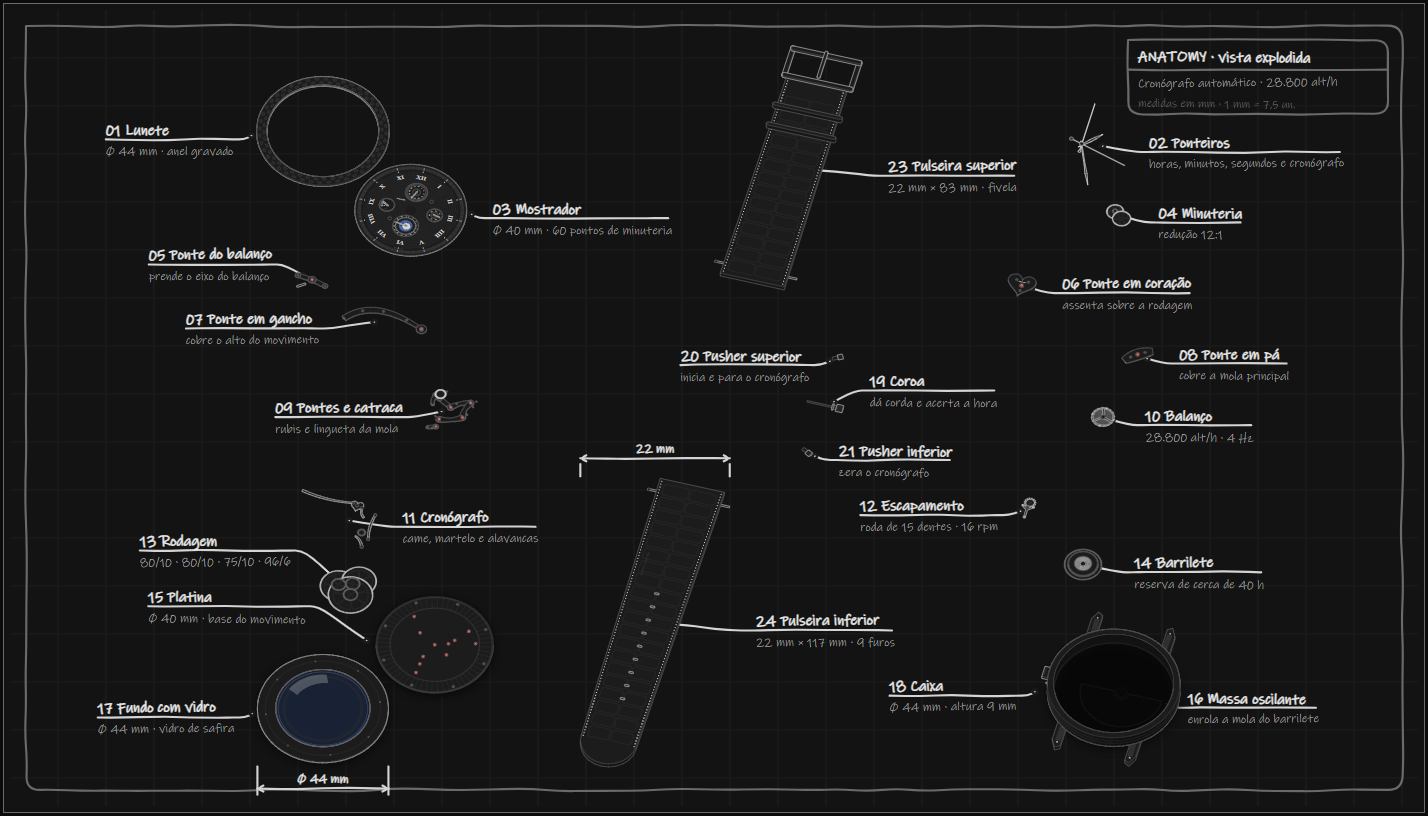
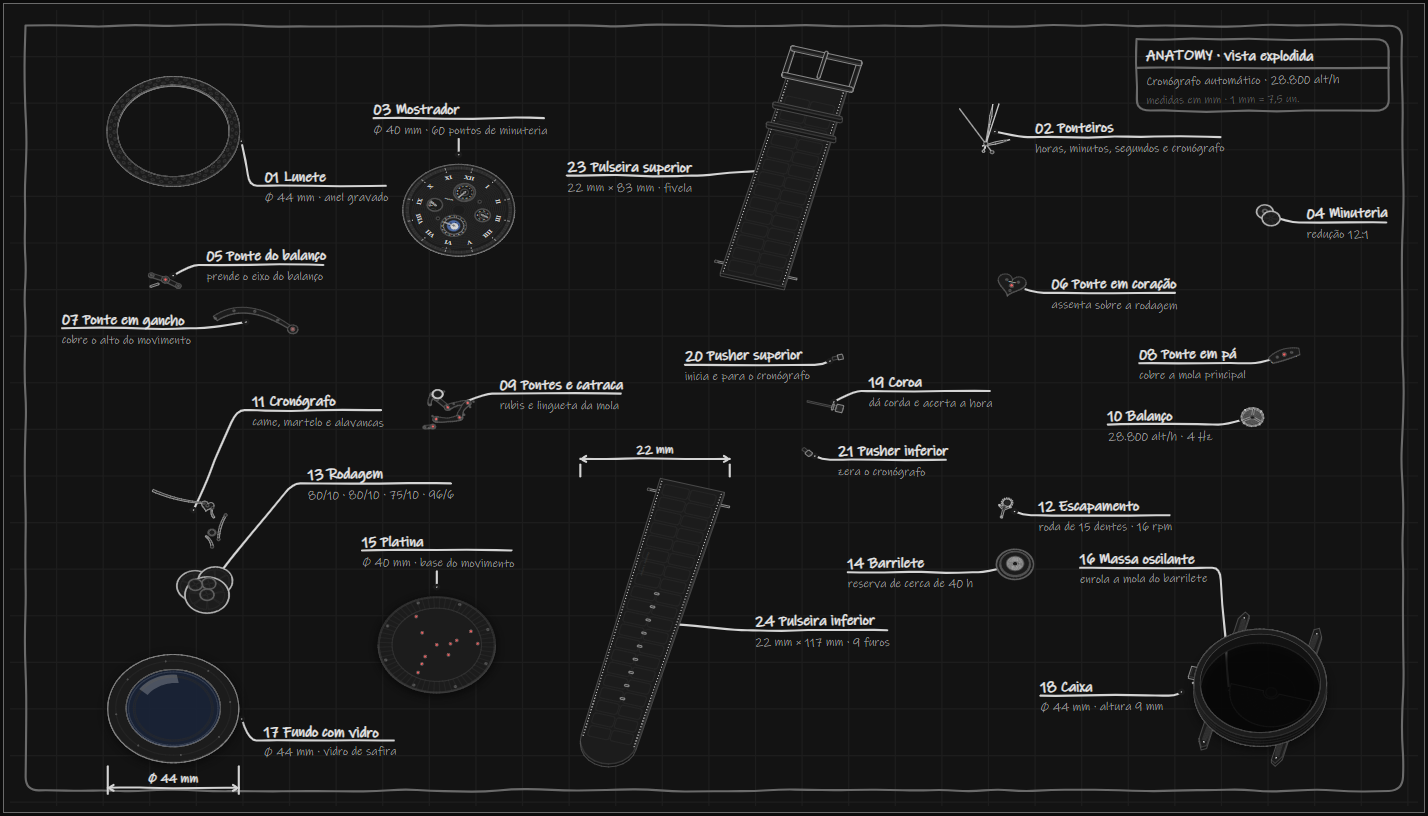
.

diff --git a/relogio/relogio-grande-light.html b/relogio/relogio-grande-light.html
@@ -1014,7 +1014,7 @@ function draw() {
     const rb = svgRoot.getBoundingClientRect();
     const sc2 = Math.min(rb.width / VB1[2], rb.height / VB1[3]);
     const vbw = Math.abs(iso([SPREAD_DIR[0], SPREAD_DIR[1], 0], P)[0] - iso([0, 0, 0], P)[0]);
-    spScale = Math.max(0.5, Math.min(4, ((rb.width - 600) / 2 - 0) / (sc2 * vbw) / 250));
+    spScale = Math.max(0.5, Math.min(9, ((rb.width - 310) / 2) / (sc2 * vbw) / 250));
     state.spScale = spScale;
     state.spZk = Math.max(0.5, sc2 / 0.612);
   }
@@ -1175,7 +1175,7 @@ function hairPath(theta) {
   for (let i = 0; i <= N; i++) { const t = i / N, a = turns * 2 * Math.PI * t + theta * Math.PI / 180 * (1 - t), r = r0 + (r1 - r0) * t * (1 + 0.012 * Math.sin(theta * Math.PI / 180)); pts.push(iso([BAL[0] + r * Math.cos(a), BAL[1] + r * Math.sin(a), 31.3], P)); }
   return pathOf(pts);
 }
-const SPREAD = {"bezel":-250,"hands":225,"dial":-195,"motion":250,"cock":-245,"bridgeHeart":185,"bridgeHook":-215,"bridgePa":245,"bridges":-170,"balance":250,"chrono":-250,"escape":200,"train":-240,"barrel":235,"plate":-180,"rotor":250,"back":-250,"case":245}, SPREAD_AMP = 1, SPREAD_DIR = [0.9659258262890683,-0.25881904510252074];
+const SPREAD = {"bezel":-250,"hands":120,"dial":-120,"motion":250,"cock":-245,"bridgeHeart":130,"bridgeHook":-215,"bridgePa":245,"bridges":-125,"balance":250,"chrono":-250,"escape":135,"train":-240,"barrel":140,"plate":-130,"rotor":250,"back":-250,"case":245}, SPREAD_AMP = 1, SPREAD_DIR = [0.9659258262890683,-0.25881904510252074];
 const SPREAD_IDS = Object.keys(SPREAD);
 const SPREADZ = {"bezel":530,"dial":120,"cock":0,"bridgeHook":-490,"bridges":-850,"chrono":-1540,"train":-1870,"plate":-2150,"back":-2330,"hands":530,"motion":160,"bridgeHeart":-160,"bridgePa":-325,"balance":-610,"escape":-1220,"barrel":-1700,"rotor":-2320,"case":-2420};
 const BPDATA = [["bezel","Lunete","Ø 44 mm · anel gravado"],["hands","Ponteiros","horas, minutos, segundos e cronógrafo"],["dial","Mostrador","Ø 40 mm · 60 pontos de minuteria"],["motion","Minuteria","redução 12:1"],["cock","Ponte do balanço","prende o eixo do balanço"],["bridgeHeart","Ponte em coração","assenta sobre a rodagem"],["bridgeHook","Ponte em gancho","cobre o alto do movimento"],["bridgePa","Ponte em pá","cobre a mola principal"],["bridges","Pontes e catraca","rubis e lingueta da mola"],["balance","Balanço","28.800 alt/h · 4 Hz"],["chrono","Cronógrafo","came, martelo e alavancas"],["escape","Escapamento","roda de 15 dentes · 16 rpm"],["train","Rodagem","80/10 · 80/10 · 75/10 · 96/6"],["barrel","Barrilete","reserva de cerca de 40 h"],["plate","Platina","Ø 40 mm · base do movimento"],["rotor","Massa oscilante","enrola a mola do barrilete"],["back","Fundo com vidro","Ø 44 mm · vidro de safira"],["case","Caixa","Ø 44 mm · altura 9 mm"],["crown","Coroa","dá corda e acerta a hora"],["pushS","Pusher superior","inicia e para o cronógrafo"],["pushR","Pusher inferior","zera o cronógrafo"],["pins","Pinos de mola","prendem as pulseiras"],["strapT","Pulseira superior","22 mm × 83 mm · fivela"],["strapB","Pulseira inferior","22 mm × 117 mm · 9 furos"]];
@@ -1191,10 +1191,11 @@ function bpBuild() {
   const sc = ctm.a;
   const pt = (x, y) => { const p = svgRoot.createSVGPoint(); p.x = x; p.y = y; const q = p.matrixTransform(inv); return [q.x, q.y]; };
   const [vx0, vy0] = pt(rect.left, rect.top), [vx1, vy1] = pt(rect.right, rect.bottom);
-  const u = (px) => px / sc;
+  const k = Math.max(0.58, Math.min(1, rect.width / 1440, rect.height / 820));
+  const u = (px) => px * k / sc;
   const f1 = (v) => v.toFixed(1);
   const HAND = "'Ink Free','Segoe Print','Bradley Hand','Chalkboard SE','Comic Sans MS',cursive";
-  const fN = u(14.5), fS = u(12), lw = u(1.3);
+  const fN = u(14.5), fS = u(12), lw = 1.3 / sc;
   let seed = 90210;
   const rnd = () => { seed |= 0; seed = (seed + 0x6D2B79F5) | 0; let t = Math.imul(seed ^ (seed >>> 15), 1 | seed); t = (t + Math.imul(t ^ (t >>> 7), 61 | t)) ^ t; return ((t ^ (t >>> 14)) >>> 0) / 4294967296; };
   const hand = (pts, amp) => {
@@ -1256,7 +1257,10 @@ function bpBuild() {
   out.push('<path d="' + grid.join("") + '" style="fill:none;stroke:var(--anatomy-faint);stroke-width:' + (lw * 0.55).toFixed(2) + ';opacity:.45"/>');
   const m = u(16);
   out.push(ln([[vx0 + m, vy0 + m], [vx1 - m, vy0 + m], [vx1 - m, vy1 - m], [vx0 + m, vy1 - m], [vx0 + m, vy0 + m]], "var(--anatomy-mid)", lw, u(1.4), 0));
-  const tw = u(260), th = u(74), bx = vx1 - m - tw - u(14), by = vy0 + m + u(14);
+  const tw = u(260), th = u(74), e0 = m + u(14);
+  const spots = [[vx1 - e0 - tw, vy0 + e0], [vx0 + e0, vy0 + e0], [vx1 - e0 - tw, vy1 - e0 - th], [vx0 + e0, vy1 - e0 - th]];
+  const overlap = (p) => items.reduce((a, o) => a + (o.b[0] < p[0] + tw + u(30) && o.b[2] > p[0] - u(30) && o.b[1] < p[1] + th + u(30) && o.b[3] > p[1] - u(30) ? 1 : 0), 0);
+  const [bx, by] = spots.reduce((best, p) => (overlap(p) < overlap(best) ? p : best), spots[0]);
   const bb = box("back"), bs = box("strapB");
   const blocks = [[bx, by, bx + tw, by + th]];
   if (bb) blocks.push([bb[0] - u(4), bb[3] + u(2), bb[2] + u(4), bb[3] + u(44)]);
@@ -1264,7 +1268,7 @@ function bpBuild() {
   const pad = u(6);
   const hit = (a, b) => a[0] < b[2] && a[2] > b[0] && a[1] < b[3] && a[3] > b[1];
   const inflate = (b, d) => [b[0] - d, b[1] - d, b[2] + d, b[3] + d];
-  const placed = [];
+  const placed = [], leaders = [];
   const lh = fN * 1.25 + fS * 1.25 + u(8);
   const gap = u(26);
   const free = (r, self) => {
@@ -1277,39 +1281,59 @@ function bpBuild() {
   [...items].sort((p, q) => q.cy - p.cy).forEach((it) => {
     const b = it.b;
     const sides = it.cx < mid ? ["L", "R"] : ["R", "L"];
-    let pick = null;
-    for (const gm of [1, 1.8, 2.8]) {
-      for (const dyk of [0, -1, 1, -2, 2, -3, 3, -4, 4, -5, 5, -6, 6, -7, 7, -8, 8]) {
-        for (const side of sides) {
-          const ty0 = it.cy - fN * 0.8 + dyk * u(24);
-          const x0 = side === "L" ? b[0] - gap * gm - it.w : b[2] + gap * gm;
-          const r = [x0 - pad, ty0 - pad, x0 + it.w + pad, ty0 + lh + pad];
-          if (free(r, it)) { pick = { side, x0, ty0, r }; break; }
-        }
-        if (pick) break;
+    const lead = (side, x0, ty0) => {
+      const vert = side === "U" || side === "D";
+      const ax = vert ? it.cx : EDGE[it.id] ? (side === "L" ? b[0] : b[2]) : it.cx;
+      const ay = vert && EDGE[it.id] ? (side === "U" ? b[1] : b[3]) : it.cy;
+      const lineY = ty0 + fN + u(5);
+      const e = vert ? [Math.max(x0 + u(12), Math.min(x0 + it.w - u(12), ax)), side === "U" ? ty0 + lh : ty0] : [side === "L" ? x0 + it.w + u(16) : x0 - u(16), lineY];
+      return [[ax, ay], e];
+    };
+    const inBox = (p, q) => p[0] > q[0] && p[0] < q[2] && p[1] > q[1] && p[1] < q[3];
+    const cross = (p, q, r, t) => {
+      const o = (a, b2, c) => (b2[0] - a[0]) * (c[1] - a[1]) - (b2[1] - a[1]) * (c[0] - a[0]);
+      return o(p, q, r) * o(p, q, t) < 0 && o(r, t, p) * o(r, t, q) < 0;
+    };
+    const clear = (seg) => {
+      for (let i = 1; i < 28; i++) {
+        const t = i / 28, p = [seg[0][0] + (seg[1][0] - seg[0][0]) * t, seg[0][1] + (seg[1][1] - seg[0][1]) * t];
+        if (items.some((o) => o !== it && inBox(p, inflate(o.b, u(4))))) return false;
+        if (blocks.some((q) => inBox(p, q)) || placed.some((q) => inBox(p, q))) return false;
       }
-      if (pick) break;
-    }
-    if (!pick) {
+      return !leaders.some((l) => cross(seg[0], seg[1], l[0], l[1]));
+    };
+    const search = (strict) => {
+      const ok = (side, x0, ty0) => {
+        const r = [x0 - pad, ty0 - pad, x0 + it.w + pad, ty0 + lh + pad];
+        return free(r, it) && (!strict || clear(lead(side, x0, ty0))) ? { side, x0, ty0, r } : null;
+      };
+      let pick = null;
+      for (const gm of [1, 1.8, 2.8, 4]) {
+        for (const dyk of [0, -1, 1, -2, 2, -3, 3, -4, 4, -5, 5, -6, 6, -7, 7, -8, 8]) {
+          for (const side of sides) {
+            pick = ok(side, side === "L" ? b[0] - gap * gm - it.w : b[2] + gap * gm, it.cy - fN * 0.8 + dyk * u(24));
+            if (pick) return pick;
+          }
+        }
+      }
       for (const gm of [1, 1.8, 2.8]) {
         for (const dxk of [0, -1, 1, -2, 2, -3, 3]) {
           for (const side of ["U", "D"]) {
-            const x0 = it.cx - it.w / 2 + dxk * u(30);
-            const ty0 = side === "U" ? b[1] - gap * gm - lh : b[3] + gap * gm;
-            const r = [x0 - pad, ty0 - pad, x0 + it.w + pad, ty0 + lh + pad];
-            if (free(r, it)) { pick = { side, x0, ty0, r }; break; }
+            pick = ok(side, it.cx - it.w / 2 + dxk * u(30), side === "U" ? b[1] - gap * gm - lh : b[3] + gap * gm);
+            if (pick) return pick;
           }
-          if (pick) break;
         }
-        if (pick) break;
       }
-    }
+      return null;
+    };
+    let pick = search(true) || search(false);
     if (!pick) {
       const side = sides[0];
       const x0 = side === "L" ? b[0] - gap - it.w : b[2] + gap;
       const ty0 = it.cy - fN * 0.8;
       pick = { side, x0, ty0, r: [x0, ty0, x0 + it.w, ty0 + lh] };
     }
+    leaders.push(lead(pick.side, pick.x0, pick.ty0));
     placed.push(pick.r);
     const side = pick.side;
     const vert = side === "U" || side === "D";

diff --git a/relogio/relogio-grande.html b/relogio/relogio-grande.html
@@ -1014,7 +1014,7 @@ function draw() {
     const rb = svgRoot.getBoundingClientRect();
     const sc2 = Math.min(rb.width / VB1[2], rb.height / VB1[3]);
     const vbw = Math.abs(iso([SPREAD_DIR[0], SPREAD_DIR[1], 0], P)[0] - iso([0, 0, 0], P)[0]);
-    spScale = Math.max(0.5, Math.min(4, ((rb.width - 600) / 2 - 0) / (sc2 * vbw) / 250));
+    spScale = Math.max(0.5, Math.min(9, ((rb.width - 310) / 2) / (sc2 * vbw) / 250));
     state.spScale = spScale;
     state.spZk = Math.max(0.5, sc2 / 0.612);
   }
@@ -1175,7 +1175,7 @@ function hairPath(theta) {
   for (let i = 0; i <= N; i++) { const t = i / N, a = turns * 2 * Math.PI * t + theta * Math.PI / 180 * (1 - t), r = r0 + (r1 - r0) * t * (1 + 0.012 * Math.sin(theta * Math.PI / 180)); pts.push(iso([BAL[0] + r * Math.cos(a), BAL[1] + r * Math.sin(a), 31.3], P)); }
   return pathOf(pts);
 }
-const SPREAD = {"bezel":-250,"hands":225,"dial":-195,"motion":250,"cock":-245,"bridgeHeart":185,"bridgeHook":-215,"bridgePa":245,"bridges":-170,"balance":250,"chrono":-250,"escape":200,"train":-240,"barrel":235,"plate":-180,"rotor":250,"back":-250,"case":245}, SPREAD_AMP = 1, SPREAD_DIR = [0.9659258262890683,-0.25881904510252074];
+const SPREAD = {"bezel":-250,"hands":120,"dial":-120,"motion":250,"cock":-245,"bridgeHeart":130,"bridgeHook":-215,"bridgePa":245,"bridges":-125,"balance":250,"chrono":-250,"escape":135,"train":-240,"barrel":140,"plate":-130,"rotor":250,"back":-250,"case":245}, SPREAD_AMP = 1, SPREAD_DIR = [0.9659258262890683,-0.25881904510252074];
 const SPREAD_IDS = Object.keys(SPREAD);
 const SPREADZ = {"bezel":530,"dial":120,"cock":0,"bridgeHook":-490,"bridges":-850,"chrono":-1540,"train":-1870,"plate":-2150,"back":-2330,"hands":530,"motion":160,"bridgeHeart":-160,"bridgePa":-325,"balance":-610,"escape":-1220,"barrel":-1700,"rotor":-2320,"case":-2420};
 const BPDATA = [["bezel","Lunete","Ø 44 mm · anel gravado"],["hands","Ponteiros","horas, minutos, segundos e cronógrafo"],["dial","Mostrador","Ø 40 mm · 60 pontos de minuteria"],["motion","Minuteria","redução 12:1"],["cock","Ponte do balanço","prende o eixo do balanço"],["bridgeHeart","Ponte em coração","assenta sobre a rodagem"],["bridgeHook","Ponte em gancho","cobre o alto do movimento"],["bridgePa","Ponte em pá","cobre a mola principal"],["bridges","Pontes e catraca","rubis e lingueta da mola"],["balance","Balanço","28.800 alt/h · 4 Hz"],["chrono","Cronógrafo","came, martelo e alavancas"],["escape","Escapamento","roda de 15 dentes · 16 rpm"],["train","Rodagem","80/10 · 80/10 · 75/10 · 96/6"],["barrel","Barrilete","reserva de cerca de 40 h"],["plate","Platina","Ø 40 mm · base do movimento"],["rotor","Massa oscilante","enrola a mola do barrilete"],["back","Fundo com vidro","Ø 44 mm · vidro de safira"],["case","Caixa","Ø 44 mm · altura 9 mm"],["crown","Coroa","dá corda e acerta a hora"],["pushS","Pusher superior","inicia e para o cronógrafo"],["pushR","Pusher inferior","zera o cronógrafo"],["pins","Pinos de mola","prendem as pulseiras"],["strapT","Pulseira superior","22 mm × 83 mm · fivela"],["strapB","Pulseira inferior","22 mm × 117 mm · 9 furos"]];
@@ -1191,10 +1191,11 @@ function bpBuild() {
   const sc = ctm.a;
   const pt = (x, y) => { const p = svgRoot.createSVGPoint(); p.x = x; p.y = y; const q = p.matrixTransform(inv); return [q.x, q.y]; };
   const [vx0, vy0] = pt(rect.left, rect.top), [vx1, vy1] = pt(rect.right, rect.bottom);
-  const u = (px) => px / sc;
+  const k = Math.max(0.58, Math.min(1, rect.width / 1440, rect.height / 820));
+  const u = (px) => px * k / sc;
   const f1 = (v) => v.toFixed(1);
   const HAND = "'Ink Free','Segoe Print','Bradley Hand','Chalkboard SE','Comic Sans MS',cursive";
-  const fN = u(14.5), fS = u(12), lw = u(1.3);
+  const fN = u(14.5), fS = u(12), lw = 1.3 / sc;
   let seed = 90210;
   const rnd = () => { seed |= 0; seed = (seed + 0x6D2B79F5) | 0; let t = Math.imul(seed ^ (seed >>> 15), 1 | seed); t = (t + Math.imul(t ^ (t >>> 7), 61 | t)) ^ t; return ((t ^ (t >>> 14)) >>> 0) / 4294967296; };
   const hand = (pts, amp) => {
@@ -1256,7 +1257,10 @@ function bpBuild() {
   out.push('<path d="' + grid.join("") + '" style="fill:none;stroke:var(--anatomy-faint);stroke-width:' + (lw * 0.55).toFixed(2) + ';opacity:.45"/>');
   const m = u(16);
   out.push(ln([[vx0 + m, vy0 + m], [vx1 - m, vy0 + m], [vx1 - m, vy1 - m], [vx0 + m, vy1 - m], [vx0 + m, vy0 + m]], "var(--anatomy-mid)", lw, u(1.4), 0));
-  const tw = u(260), th = u(74), bx = vx1 - m - tw - u(14), by = vy0 + m + u(14);
+  const tw = u(260), th = u(74), e0 = m + u(14);
+  const spots = [[vx1 - e0 - tw, vy0 + e0], [vx0 + e0, vy0 + e0], [vx1 - e0 - tw, vy1 - e0 - th], [vx0 + e0, vy1 - e0 - th]];
+  const overlap = (p) => items.reduce((a, o) => a + (o.b[0] < p[0] + tw + u(30) && o.b[2] > p[0] - u(30) && o.b[1] < p[1] + th + u(30) && o.b[3] > p[1] - u(30) ? 1 : 0), 0);
+  const [bx, by] = spots.reduce((best, p) => (overlap(p) < overlap(best) ? p : best), spots[0]);
   const bb = box("back"), bs = box("strapB");
   const blocks = [[bx, by, bx + tw, by + th]];
   if (bb) blocks.push([bb[0] - u(4), bb[3] + u(2), bb[2] + u(4), bb[3] + u(44)]);
@@ -1264,7 +1268,7 @@ function bpBuild() {
   const pad = u(6);
   const hit = (a, b) => a[0] < b[2] && a[2] > b[0] && a[1] < b[3] && a[3] > b[1];
   const inflate = (b, d) => [b[0] - d, b[1] - d, b[2] + d, b[3] + d];
-  const placed = [];
+  const placed = [], leaders = [];
   const lh = fN * 1.25 + fS * 1.25 + u(8);
   const gap = u(26);
   const free = (r, self) => {
@@ -1277,39 +1281,59 @@ function bpBuild() {
   [...items].sort((p, q) => q.cy - p.cy).forEach((it) => {
     const b = it.b;
     const sides = it.cx < mid ? ["L", "R"] : ["R", "L"];
-    let pick = null;
-    for (const gm of [1, 1.8, 2.8]) {
-      for (const dyk of [0, -1, 1, -2, 2, -3, 3, -4, 4, -5, 5, -6, 6, -7, 7, -8, 8]) {
-        for (const side of sides) {
-          const ty0 = it.cy - fN * 0.8 + dyk * u(24);
-          const x0 = side === "L" ? b[0] - gap * gm - it.w : b[2] + gap * gm;
-          const r = [x0 - pad, ty0 - pad, x0 + it.w + pad, ty0 + lh + pad];
-          if (free(r, it)) { pick = { side, x0, ty0, r }; break; }
-        }
-        if (pick) break;
+    const lead = (side, x0, ty0) => {
+      const vert = side === "U" || side === "D";
+      const ax = vert ? it.cx : EDGE[it.id] ? (side === "L" ? b[0] : b[2]) : it.cx;
+      const ay = vert && EDGE[it.id] ? (side === "U" ? b[1] : b[3]) : it.cy;
+      const lineY = ty0 + fN + u(5);
+      const e = vert ? [Math.max(x0 + u(12), Math.min(x0 + it.w - u(12), ax)), side === "U" ? ty0 + lh : ty0] : [side === "L" ? x0 + it.w + u(16) : x0 - u(16), lineY];
+      return [[ax, ay], e];
+    };
+    const inBox = (p, q) => p[0] > q[0] && p[0] < q[2] && p[1] > q[1] && p[1] < q[3];
+    const cross = (p, q, r, t) => {
+      const o = (a, b2, c) => (b2[0] - a[0]) * (c[1] - a[1]) - (b2[1] - a[1]) * (c[0] - a[0]);
+      return o(p, q, r) * o(p, q, t) < 0 && o(r, t, p) * o(r, t, q) < 0;
+    };
+    const clear = (seg) => {
+      for (let i = 1; i < 28; i++) {
+        const t = i / 28, p = [seg[0][0] + (seg[1][0] - seg[0][0]) * t, seg[0][1] + (seg[1][1] - seg[0][1]) * t];
+        if (items.some((o) => o !== it && inBox(p, inflate(o.b, u(4))))) return false;
+        if (blocks.some((q) => inBox(p, q)) || placed.some((q) => inBox(p, q))) return false;
       }
-      if (pick) break;
-    }
-    if (!pick) {
+      return !leaders.some((l) => cross(seg[0], seg[1], l[0], l[1]));
+    };
+    const search = (strict) => {
+      const ok = (side, x0, ty0) => {
+        const r = [x0 - pad, ty0 - pad, x0 + it.w + pad, ty0 + lh + pad];
+        return free(r, it) && (!strict || clear(lead(side, x0, ty0))) ? { side, x0, ty0, r } : null;
+      };
+      let pick = null;
+      for (const gm of [1, 1.8, 2.8, 4]) {
+        for (const dyk of [0, -1, 1, -2, 2, -3, 3, -4, 4, -5, 5, -6, 6, -7, 7, -8, 8]) {
+          for (const side of sides) {
+            pick = ok(side, side === "L" ? b[0] - gap * gm - it.w : b[2] + gap * gm, it.cy - fN * 0.8 + dyk * u(24));
+            if (pick) return pick;
+          }
+        }
+      }
       for (const gm of [1, 1.8, 2.8]) {
         for (const dxk of [0, -1, 1, -2, 2, -3, 3]) {
           for (const side of ["U", "D"]) {
-            const x0 = it.cx - it.w / 2 + dxk * u(30);
-            const ty0 = side === "U" ? b[1] - gap * gm - lh : b[3] + gap * gm;
-            const r = [x0 - pad, ty0 - pad, x0 + it.w + pad, ty0 + lh + pad];
-            if (free(r, it)) { pick = { side, x0, ty0, r }; break; }
+            pick = ok(side, it.cx - it.w / 2 + dxk * u(30), side === "U" ? b[1] - gap * gm - lh : b[3] + gap * gm);
+            if (pick) return pick;
           }
-          if (pick) break;
         }
-        if (pick) break;
       }
-    }
+      return null;
+    };
+    let pick = search(true) || search(false);
     if (!pick) {
       const side = sides[0];
       const x0 = side === "L" ? b[0] - gap - it.w : b[2] + gap;
       const ty0 = it.cy - fN * 0.8;
       pick = { side, x0, ty0, r: [x0, ty0, x0 + it.w, ty0 + lh] };
     }
+    leaders.push(lead(pick.side, pick.x0, pick.ty0));
     placed.push(pick.r);
     const side = pick.side;
     const vert = side === "U" || side === "D";
